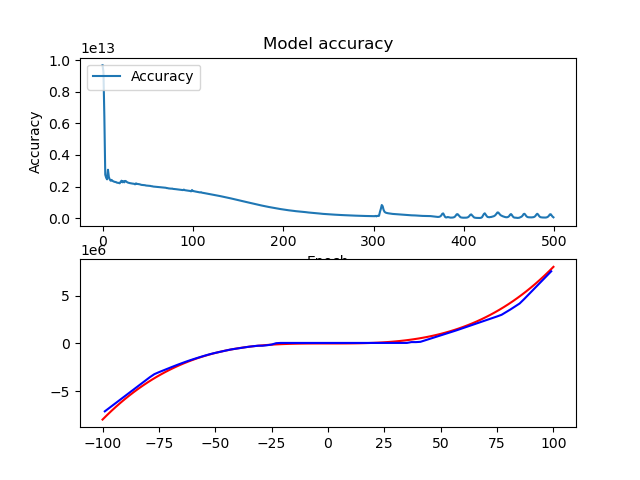
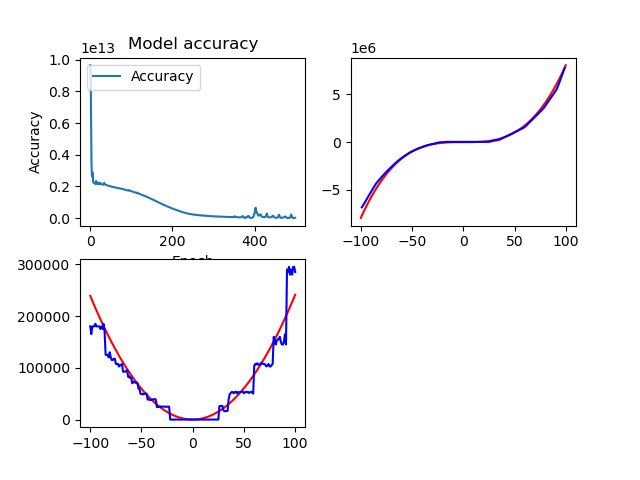
도함수 그래프 추가...

diff --git a/main.py b/main.py
@@ -61,8 +61,31 @@ for i in range(-99, 101, 2):
 predict_x_data = np.array(predict_x_data)
 predict_y_data = np.array(predict_y_data)
 
+
+# 예측한 모델의 도함수
+def predict_der_f(x):
+    # 0에 가까운 값
+    delta_x = 1e-4
+    # 도함수의 정의 사용 ( lim:h->0 에서 (f(x+h)-f(x))/h )
+    return float(model.predict([x + delta_x]) - model.predict([x]))/delta_x
+
+
+# 도함수 비교를 위한 빈 배열 생성
+der_x_data = []
+der_y_data = []
+der_predict_y_data = []
+for i in range(-100, 101, 1):
+    der_x_data.append(i)
+    der_y_data.append(der_f(i))
+    der_predict_y_data.append(float(predict_der_f(i)))
+der_x_data = np.array(der_x_data)
+der_y_data = np.array(der_y_data)
+der_predict_y_data = np.array(der_predict_y_data)
+
+
+
 # epoch에 대한 오차값 그래프
-plt.subplot(211)
+plt.subplot(221)
 plt.plot(history.history["loss"])
 plt.title("Model accuracy")
 plt.xlabel("Epoch")
@@ -70,7 +93,12 @@ plt.ylabel("Accuracy")
 plt.legend(["Accuracy", "Loss"], loc="upper left")
 
 # 함수 그래프
-plt.subplot(212)
+plt.subplot(222)
 plt.plot(x_data, y_data, color="red")
 plt.plot(predict_x_data, predict_y_data, color="blue")
+
+# 도함수 그래프
+plt.subplot(223)
+plt.plot(der_x_data, der_y_data, color="red")
+plt.plot(der_x_data, der_predict_y_data, color="blue")
 plt.savefig("results.png")
